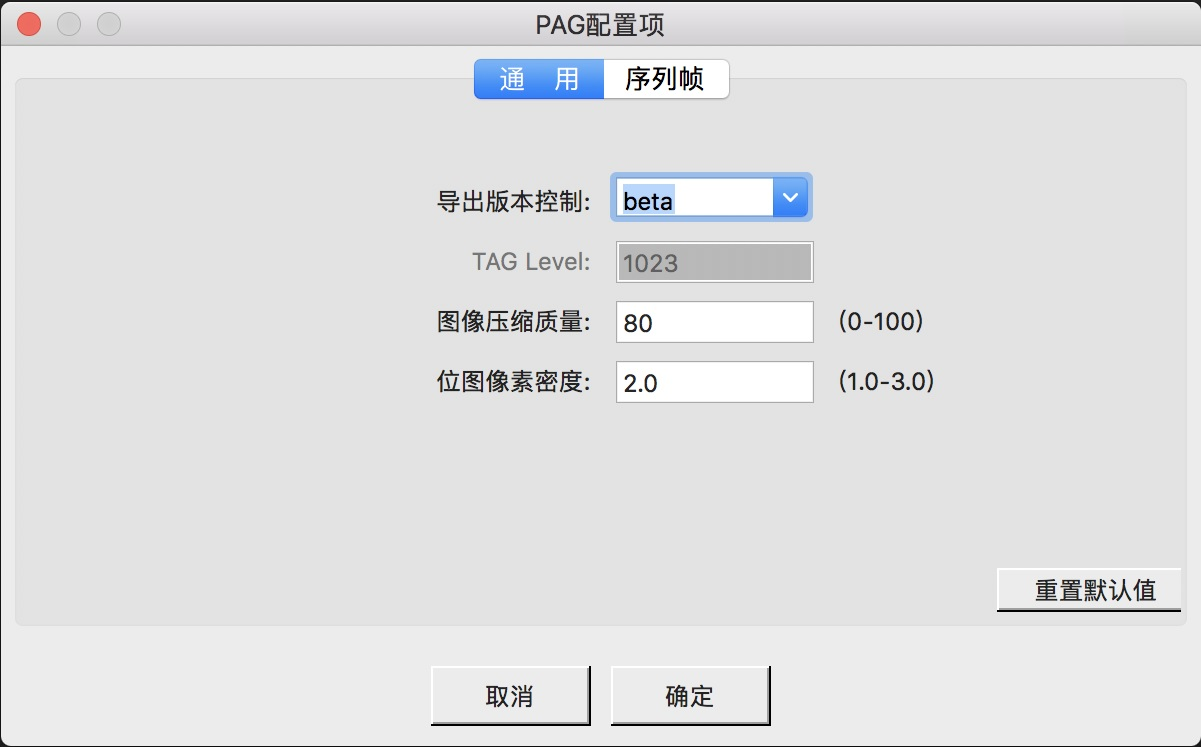
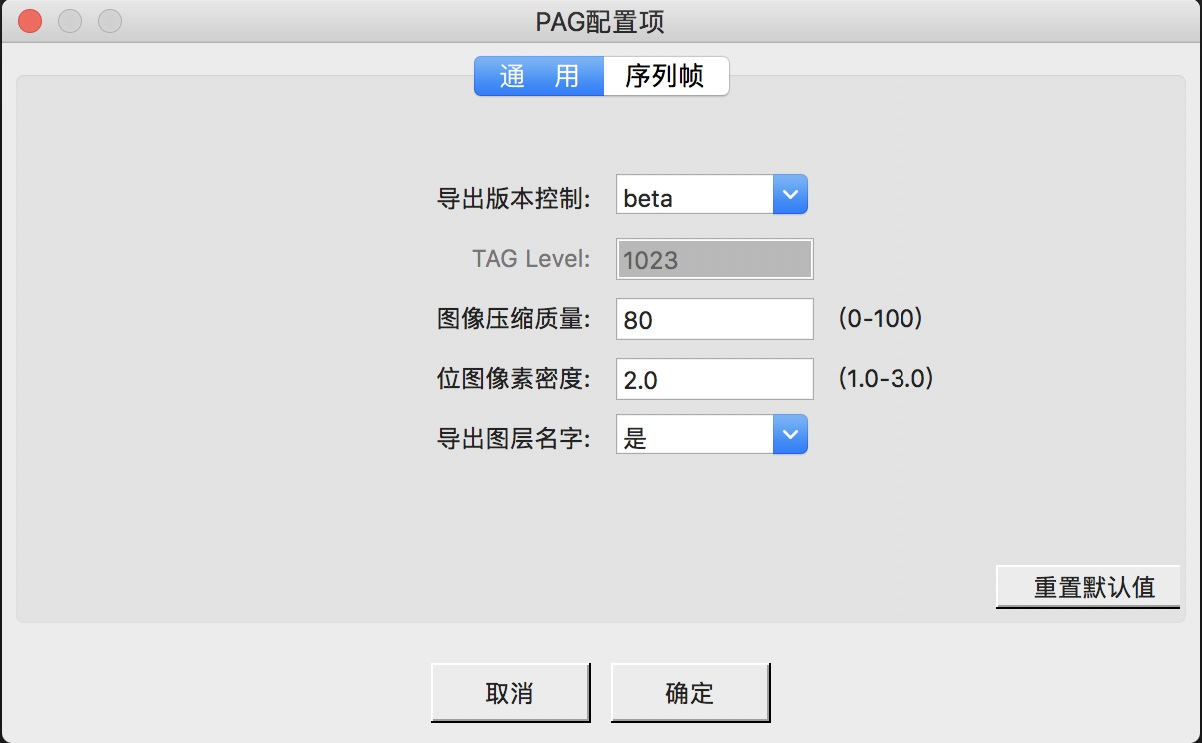
Deploy website
Deploy website version based on 8b34daa7798f2fc863fdc3ad2646bf037d5bc9fe

diff --git a/docs/plugin-config.html b/docs/plugin-config.html
@@ -69,6 +69,8 @@
 <p>用来控制位图和序列帧的压缩质量，取值范围（0-100），越高图片越清晰但是文件越大，默认80。</p>
 <p>4.位图像素密度:</p>
 <p>用于控制位图在文件中存储的最大像素密度。</p>
+<p>5.导出图层名字:</p>
+<p>是否导出图层名字。（若要导出图层名字，需要确保PAGViewer的版本不低于1.4.2，且“导出版本控制”项为beta。）</p>
 <h3><a class="anchor" aria-hidden="true" id="序列帧-页"></a><a href="#序列帧-页" aria-hidden="true" class="hash-link"><svg class="hash-link-icon" aria-hidden="true" height="16" version="1.1" viewBox="0 0 16 16" width="16"><path fill-rule="evenodd" d="M4 9h1v1H4c-1.5 0-3-1.69-3-3.5S2.55 3 4 3h4c1.45 0 3 1.69 3 3.5 0 1.41-.91 2.72-2 3.25V8.59c.58-.45 1-1.27 1-2.09C10 5.22 8.98 4 8 4H4c-.98 0-2 1.22-2 2.5S3 9 4 9zm9-3h-1v1h1c1 0 2 1.22 2 2.5S13.98 12 13 12H9c-.98 0-2-1.22-2-2.5 0-.83.42-1.64 1-2.09V6.25c-1.09.53-2 1.84-2 3.25C6 11.31 7.55 13 9 13h4c1.45 0 3-1.69 3-3.5S14.5 6 13 6z"></path></svg></a>“序列帧”页。</h3>
 <p>可配置位图序列帧导出方式的相关参数（如下图：）
 <img src="/img/docs/plugin_config3.jpg" alt=""></p>
